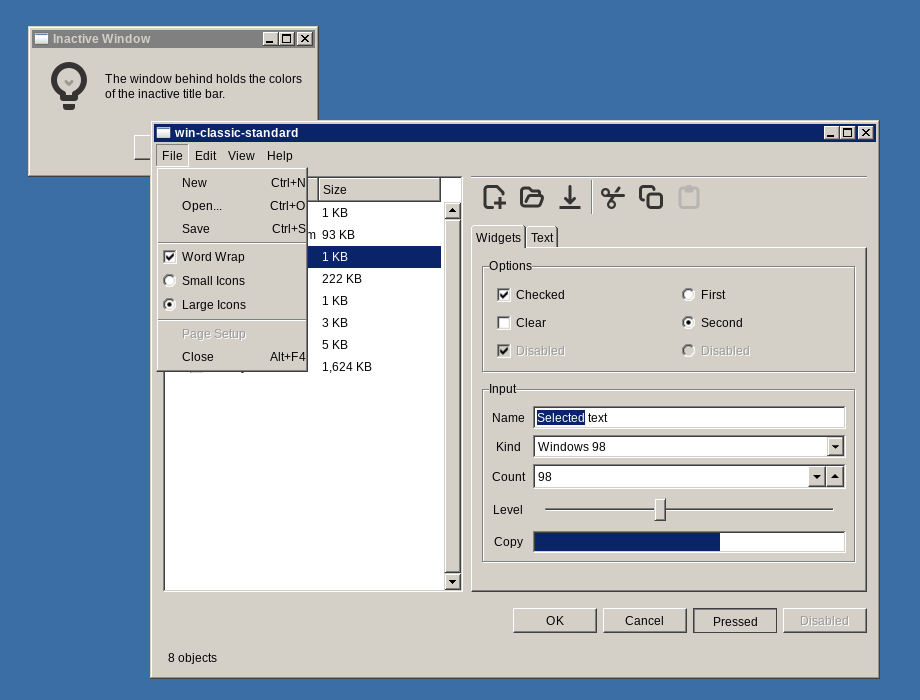
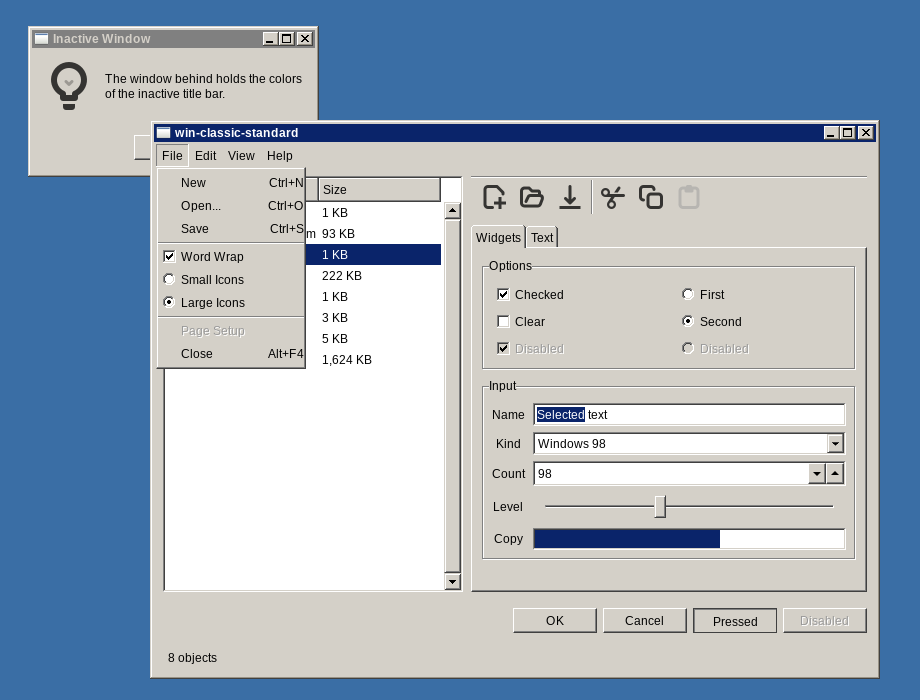
Draw the check and the radio at the size of the image
The images in `assets/` are 15px. GTK gave the node 16px and made the image
larger, thus the edges came out soft. GTK3 takes the size from the node, and
GTK4 keeps the node at 16px and takes the size of the image from
`-gtk-icon-size`. The two toolkits now draw one pixel of the image on one
pixel of the screen.

Changed region(s): [[0.5174, 0.39, 0.9435, 0.81], [0.1826, 0.24, 0.487, 0.54], [0.1826, 0.24, 0.2435, 0.3]]

diff --git a/gtk-3.0/gtk-buttons.css b/gtk-3.0/gtk-buttons.css
@@ -398,6 +398,8 @@ popover modelbutton {
 
 
 check, radio, check:disabled, radio:disabled {
+   min-width: 15px;
+   min-height: 15px;
    margin: 4px;
    border-style: none;
    background-color: transparent; }
@@ -444,8 +446,8 @@ radio:indeterminate:disabled, .radio:indeterminate:disabled {
    -gtk-icon-source: url("assets/radio_ins_mixed.png"); }
 
 menuitem check, menuitem radio {
-   min-height: 16px;
-   min-width: 16px; }
+   min-height: 15px;
+   min-width: 15px; }
 
 view.content-view check:hover, view.content-view check:disabled, view.content-view check:selected {
    background-color: transparent; }

diff --git a/gtk-4.0/gtk-buttons.css b/gtk-4.0/gtk-buttons.css
@@ -18,3 +18,9 @@ spinbutton text {
 	color: @fg_color;
     padding: 4px;
 }
+
+
+/* GTK4 keeps the node at 16px. This draws the 15px image at its own size. */
+
+check, radio {
+   -gtk-icon-size: 15px; }
